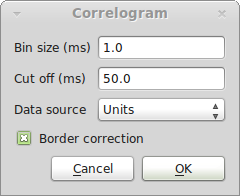
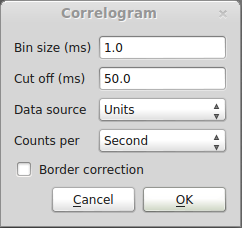
Correlograms can be per second or per segment

diff --git a/spykeviewer/plugins/Spike Trains/correlogram.py b/spykeviewer/plugins/Spike Trains/correlogram.py
@@ -8,6 +8,7 @@ class CorrelogramPlugin(analysis_plugin.AnalysisPlugin):
     bin_size = gui_data.FloatItem('Bin size', 1.0, 0.1, 10000.0, unit='ms')
     cut_off = gui_data.FloatItem('Cut off', 50.0, 2.0, 10000.0, unit='ms')
     data_source = gui_data.ChoiceItem('Data source', ('Units', 'Selections'))
+    count_per = gui_data.ChoiceItem('Counts per', ('Second', 'Segment'))
     border_correction = gui_data.BoolItem('Border correction', default=True)
 
     def get_name(self):
@@ -26,6 +27,7 @@ class CorrelogramPlugin(analysis_plugin.AnalysisPlugin):
 
         plot.cross_correlogram(d, self.bin_size*pq.ms,
             self.cut_off*pq.ms, self.border_correction,
+            self.count_per == 0,
             progress=current.progress)
 
 

diff --git a/doc/source/plugins.rst b/doc/source/plugins.rst
@@ -132,6 +132,9 @@ Data source
   treated as a dataset. Note that the plot can only be created if all
   selections contain the same number of spike trains.
 
+Counts per
+  Determines if the counts are displayed per second or per segment.
+
 Border correction
   Determines if an automatic correction for less data at higher timelags is
   applied.
